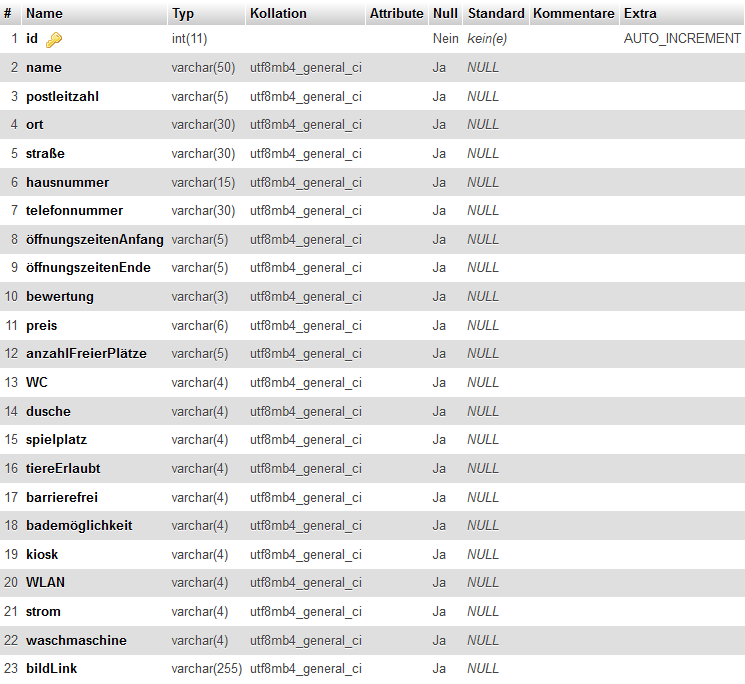
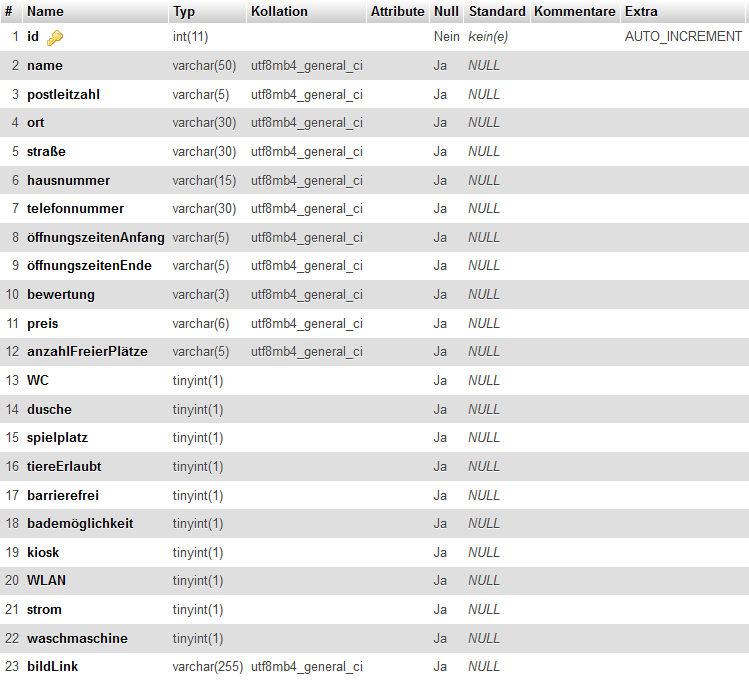
Datensätze zur Dokumentation hunzugefügt

Changed region(s): [[0.0, 0.0, 0.494, 1.0], [0.494, 0.0, 1.0, 0.9825], [0.3396, 0.0, 0.4322, 0.0307]]

diff --git a/src/App.vue b/src/App.vue
@@ -123,23 +123,20 @@ let inputArray = data;
 const displayedArray = computed(() =>
   inputArray.filter(
     (e) =>
-      ((filters.value.WC && e.WC == "Ja") || filters.value.WC == false) &&
-      ((filters.value.dusche && e.dusche == "Ja") ||
-        filters.value.dusche == false) &&
-      ((filters.value.spielplatz && e.spielplatz == "Ja") ||
+      ((filters.value.WC && e.WC) || filters.value.WC == false) &&
+      ((filters.value.dusche && e.dusche) || filters.value.dusche == false) &&
+      ((filters.value.spielplatz && e.spielplatz) ||
         filters.value.spielplatz == false) &&
-      ((filters.value.haustiere && e.haustiere == "Ja") ||
+      ((filters.value.haustiere && e.haustiere) ||
         filters.value.haustiere == false) &&
-      ((filters.value.barrierefrei && e.barrierefrei == "Ja") ||
+      ((filters.value.barrierefrei && e.barrierefrei) ||
         filters.value.barrierefrei == false) &&
-      ((filters.value.bademöglichkeit && e.bademöglichkeit == "Ja") ||
+      ((filters.value.bademöglichkeit && e.bademöglichkeit) ||
         filters.value.bademöglichkeit == false) &&
-      ((filters.value.kiosk && e.kiosk == "Ja") ||
-        filters.value.kiosk == false) &&
-      ((filters.value.WLAN && e.WLAN == "Ja") || filters.value.WLAN == false) &&
-      ((filters.value.strom && e.strom == "Ja") ||
-        filters.value.strom == false) &&
-      ((filters.value.waschmaschine && e.waschmaschine == "Ja") ||
+      ((filters.value.kiosk && e.kiosk) || filters.value.kiosk == false) &&
+      ((filters.value.WLAN && e.WLAN) || filters.value.WLAN == false) &&
+      ((filters.value.strom && e.strom) || filters.value.strom == false) &&
+      ((filters.value.waschmaschine && e.waschmaschine) ||
         filters.value.waschmaschine == false) &&
       (!minBewertung.value ||
         parseFloat(e.bewertung) > parseFloat(minBewertung.value)) &&

diff --git a/backend/datenbankSQL.py b/backend/datenbankSQL.py
@@ -202,7 +202,7 @@ def seeder():
         "Kieler campingparadies","28764","Kiel","Achterbahn","65","04376587353","10:00","19:00","2.3","75.60","45",True,True,False,False,False,False,True,False,False,False,"https://encrypted-tbn0.gstatic.com/images?q=tbn:ANd9GcSCTvreuZjNlKBC3gZGOCjPMnrjfpZxzeYHDhmhGTIVwa3IzRXoUaeUMRAPlyGRQb30Jw4&usqp=CAU"
     )
     
-#Die komplette Zabelle wird aus der Datenbank ausgelesen, in eine liste von Objekten überführt und anschließend in einer .JSON Datei gespeichert, 
+#Die komplette Tabelle wird aus der Datenbank ausgelesen, in eine liste von Objekten überführt und anschließend in einer .JSON Datei gespeichert, 
 # welche von unserem Front-End als Datenquelle verwendet wird. Da nach jeder Veränderung der Daten in der Datenbank auch die .JSON Datei neu erstellt wird, 
 # kann man diese als Zwischenspeicher ansehen wobei die datenbank weiterhin als "Source-of-truth" fungiert.
 def writeDatabaseToJSON():

diff --git a/README.md b/README.md
@@ -42,11 +42,32 @@ Welche Option sich hinter welcher Zahl verbirgt wird nach jedem Durchlauf, aufge
 Da es sich bei den Optionen um sich wiederholende Abläufe handelt, wurden sie in Form von Funktionen in das Programm implementiert.  
 Mögliche, folgende Parameter hingegen sind variabel und werden der Funktion daher bei der Ausführung bereitgestellt und berücksichtigt.
 
-<p align="center"><img src="./docs/EingabeOptionen.png" alt="vollständige Handlung" width="30%"></p>
+<p align="center"><img src="./docs/EingabeOptionen.png" alt="vollständige Handlung" width="25%"></p>
 
-Der Datenbank-Server wird in Form eines mySQL-Server über das frei verfügbare Programm "XAMPP" bereit gestellt.  
-Sobald eine Funktion aufgerufen wird, welche mit der Datenbank arbeitet, kommuniziert unser Python Programm mit diesem mySQL-Server.
+Der Datenbank-Server wird in Form eines mySQL-Servers über das frei verfügbare Programm "XAMPP" lokal bereit gestellt.  
+Sobald eine Funktion aufgerufen wird, welche mit der Datenbank arbeitet, soll unser Python Programm mit Hilfe des mysql-connectors mit diesem mySQL-Server kommunizieren.
+Als relevante Attribute für unsere Datenbank, haben wir uns für die Folgenden entschieden:
 
+- Name des Campingplatzes
+- Adresse des Campingplatzes (atomar)
+- Telefonnummer
+- Öffnungs- und Schließzeiten
+- Bewertung
+- Preis
+- Anzahl freier Zeltplätze
+- diverse Extras (WC, dusche, spielplatz, tiereErlaubt, barrierefrei, bademöglichkeit, kiosk, WLAN, strom, waschmaschine)
+- Eine BildURL für die spätere Darstellung auf der Webseite
+
+Der Einfachheit halber hat jeder Zeltplatz auf einem Campingplatz zu jeder Zeit den selben Preis, zudem gelten die identischen Öffnungs- und Schließzeiten des ganze Jahr über.
 Das Resultat des ersten Aufrufes des Python-Scripts sah nun wie folgt aus:
 
-<p align="center"><img src="./docs/Datenbank.png" alt="vollständige Handlung" width="30%"></p>
+<p align="center"><img src="./docs/Datenbank.png" alt="vollständige Handlung" width="50%"></p>
+
+Durch die Implemierung einer "seeder"-Funktion ist es möglich vordefinierte Testdaten in die Datenbank zu integrieren, welche wir zur Anschauung verwenden wollen.
+
+<p align="center"><img src="./docs/Datensätze.png" alt="vollständige Handlung" width="90%"></p>
+
+Als nächstes befassten wir uns mir der Erstellung des Front-Ends durch das JavaScript-Framework Vue.  
+Ziel war es hier, einen Anlaufpunkt für Interessenten zu erstellen, durch welchen der Benutzer die Datenbank nach für ihn relevanten Einträgen durchsuchen und filtern kann.  
+Dadurch, dass das Front-End aber nicht direkt auf die Datenbank zugreifen kann, haben wir uns hier mit der Erstellung einer "data.json"-Datei als Zwischenspeicher beholfen.
+Diese Datei wurde so implementiert, dass sie, jedes Mal wenn wir Daten in die Datenbank übertragen oder vorhandenene Datensätze verändern, geleert wird, die Datenbank erneut ausgelesen wird und die Daten neu in die data.json geschrieben werden.
